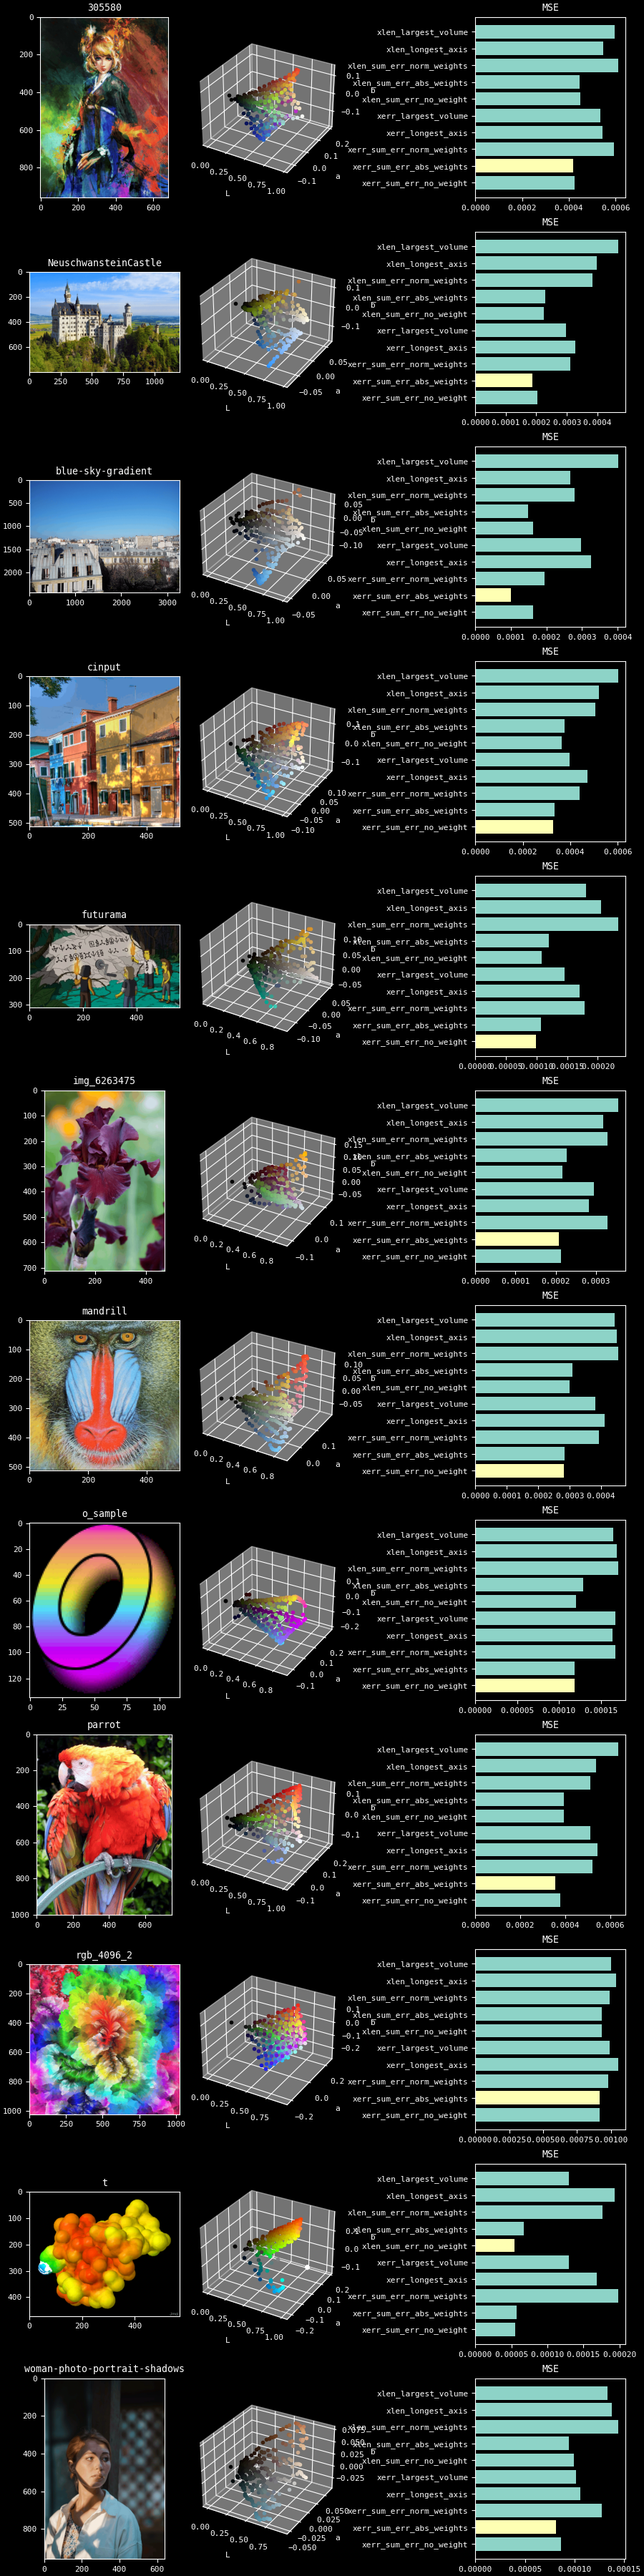
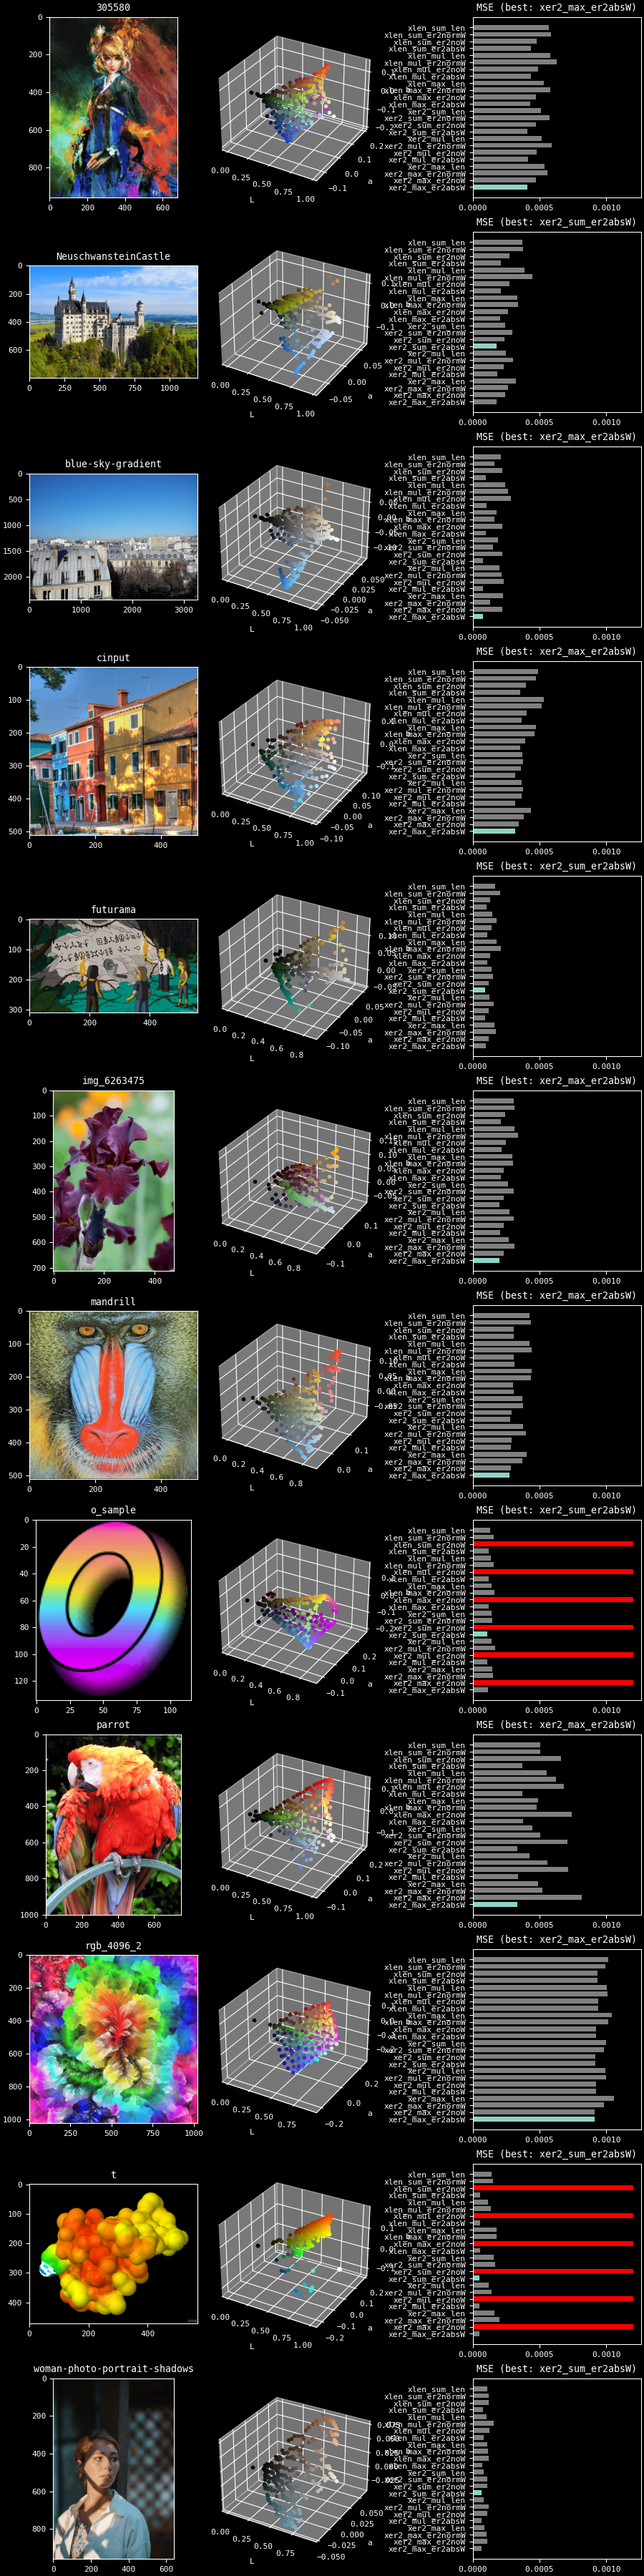
color-quantization: update results and conclusion

diff --git a/color-quantization/README.md b/color-quantization/README.md
@@ -43,7 +43,11 @@ Each algo follows the `<axis-selection>_<operator>_<measurement>` naming, where:
 
 ## Conclusions
 
-1. Overall, non-normalized weighted sum of the squared error is the best box
-   selection algorithm
-2. Overall, cutting the axis with the biggest weighted sum of squared error is
+The MSE metrics providing the best overall results is `xer2_max_er2absW`
+(followed by `xer2_sum_er2absW`), which means:
+
+1. Overall, the box with the axis that has the axis with largest non-normalized
+   weighted sum of the squared error is the best candidate in the box selection
+   algorithm
+2. Overall, cutting the axis with the largest weighted sum of squared error is
    the best axis cut selection algorithm
